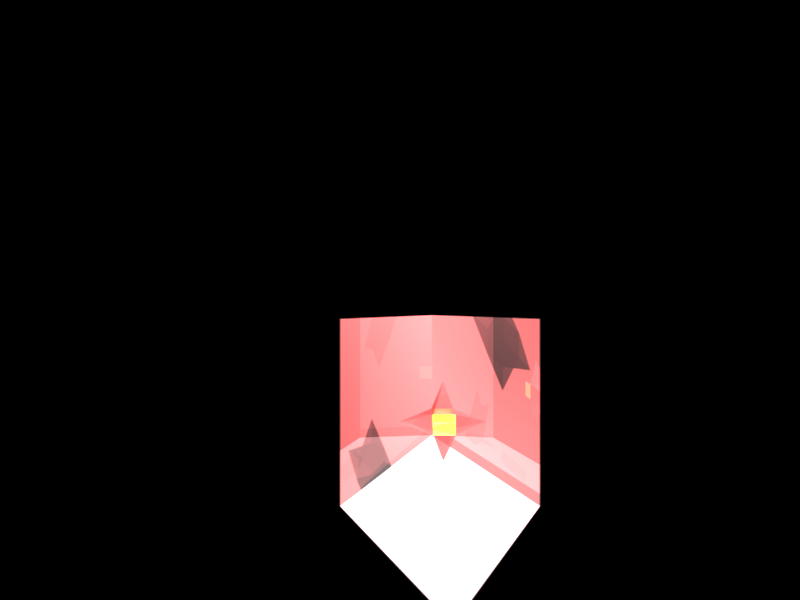
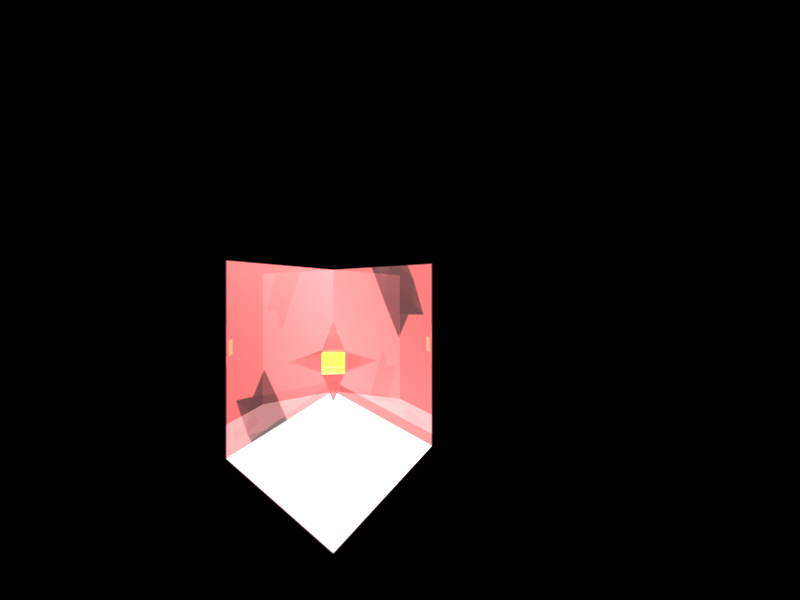
minip_1

Changed region(s): [[0.2812, 0.42, 0.6875, 1.0]]

diff --git a/unitTasts/renderer/minip1_v3.java b/unitTasts/renderer/minip1_v3.java
@@ -14,8 +14,8 @@ public class minip1_v3 {
     private final Scene scene = new Scene("Test scene");
 
     /** Camera builder for the tests with multiple shapes */
-    private final Camera.Builder cameraBuilder = Camera.getBuilder().setLocation(new Point(-20,60,100))
-            .setDirection(new Vector(0, 0, -1), new Vector(0, 1, 0))
+    private final Camera.Builder cameraBuilder = Camera.getBuilder().setLocation(new Point(0,30,100))
+            .setDirection(new Vector(0.2, 0, -1.2), new Vector(0, 1, 0))
             .setRayTracer(new SimpleRayTracer(scene));
 
     @Test
